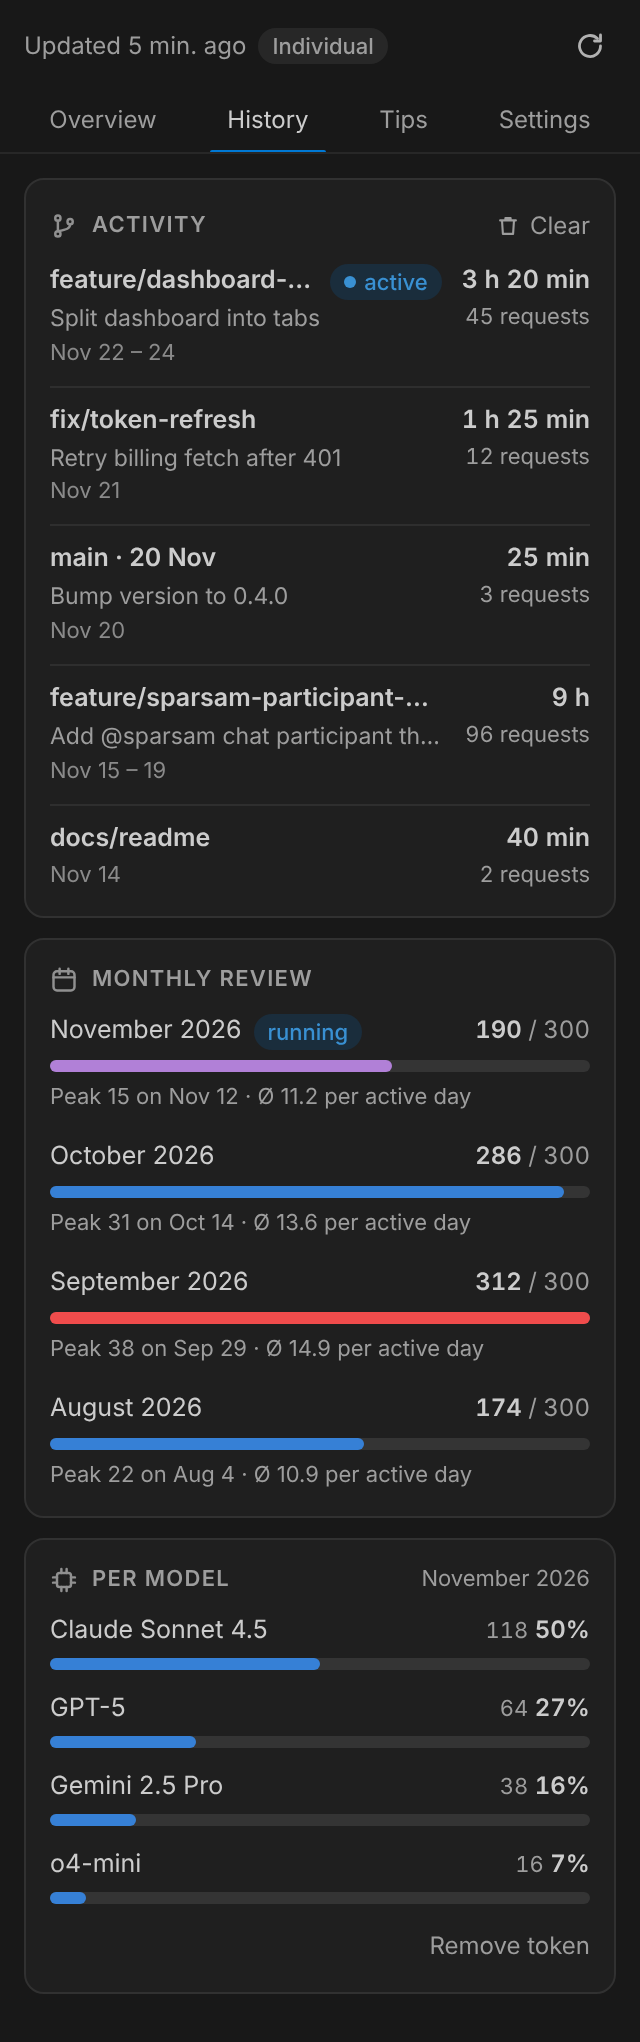
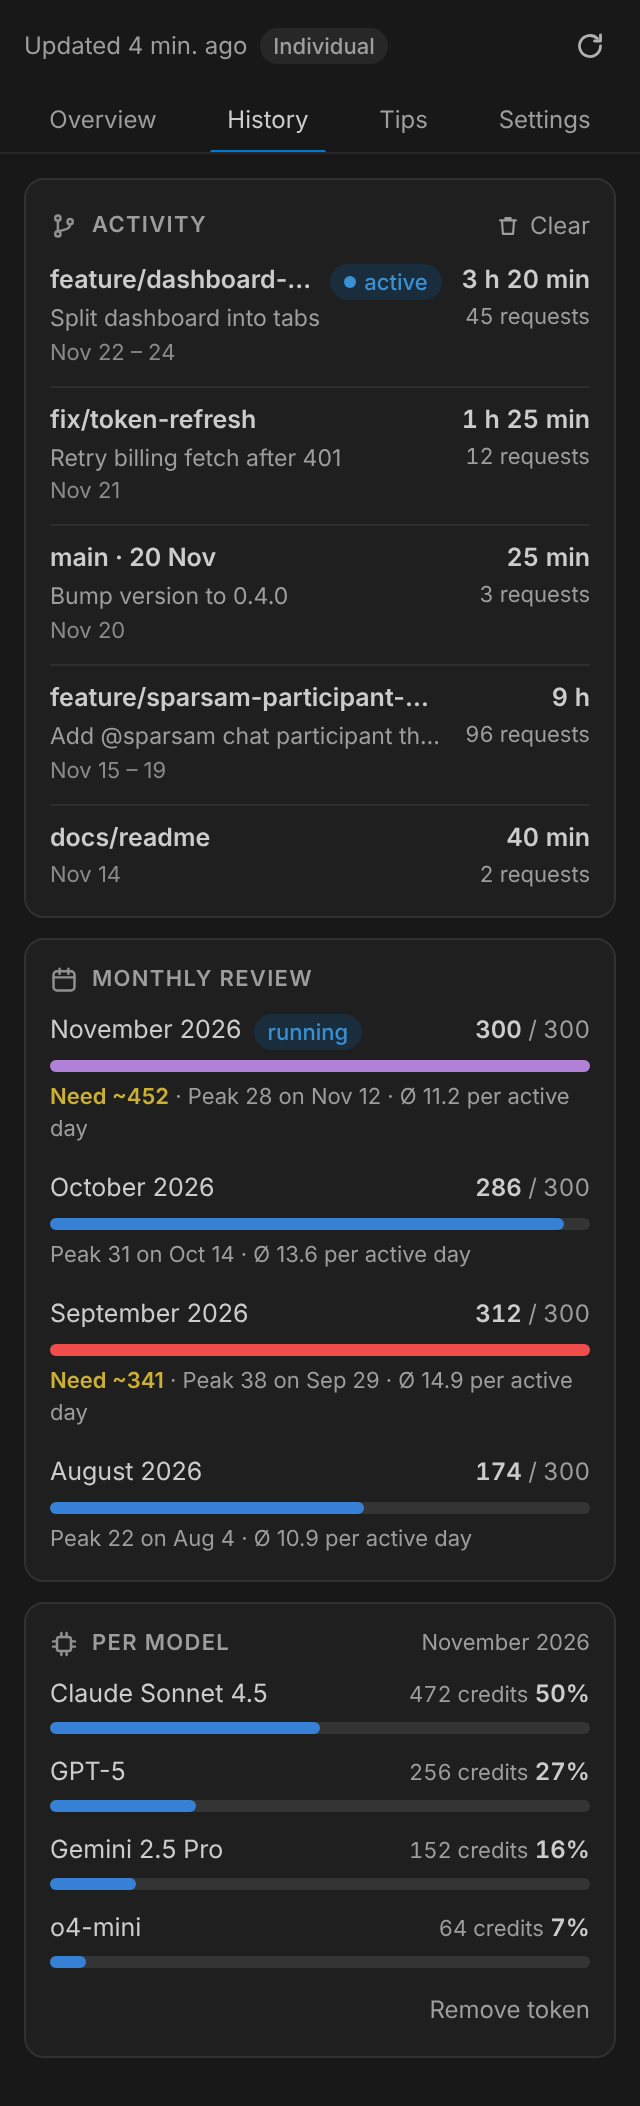
@btw chat participant, credits-first display, need estimate in dashboard
@btw answers side questions in Copilot Chat with the selected chat model
and the conversation/editor context; the panel remains for busy agent
runs. Dashboard shows the estimated monthly need, exhausted days, credits
per model and a unit setting.

Claude-Session: https://claude.ai/code/session_01Bc7AVBC2ayNjQhuqQbKSF2

diff --git a/media/dashboard/dashboard.js b/media/dashboard/dashboard.js
@@ -347,9 +347,9 @@
         icon: icon.sun,
         label: t('today'),
         value: fmt(m.today),
-        sub: q.unlimited || !f ? '' : t('ofBudget', fmt(budget)),
+        sub: q.unlimited || !f ? '' : !(q.remaining > 0) ? t('legendEmpty') : t('ofBudget', fmt(budget)),
         bar: q.unlimited || !f || budget <= 0 ? undefined : m.today / budget,
-        tone: !q.unlimited && f && m.today > budget ? 'bad' : !q.unlimited && f ? 'good' : '',
+        tone: q.unlimited || !f || !(q.remaining > 0) ? '' : m.today > budget ? 'bad' : 'good',
       }),
     );
     if (!q.unlimited && f) {
@@ -710,23 +710,30 @@
             c.activeDays > 0 ? raw('avgActiveDay', fmt(c.avgPerActiveDay)) : '',
           ]
             .filter(Boolean)
-            .map(esc)
-            .join(' · ');
+            .map(esc);
+          if (c.demand !== undefined && c.demand > c.entitlement) {
+            // The insight: how much more this month would have needed.
+            facts.unshift(`<span class="rev-need" title="${t('reviewNeedTitle')}">${t('reviewNeed', fmt(Math.round(c.demand)))}</span>`);
+          }
           return `<li class="rev ${c.current ? 'current' : ''} ${over ? 'over' : ''}">
             <div class="rev-head"><span class="rev-label">${esc(c.label)}${
               c.current ? ` <span class="badge badge-live">${t('running')}</span>` : ''
-            }</span><span class="rev-val"><b>${fmt(c.used)}</b><span class="muted"> / ${fmt(c.entitlement)}</span>${
-              c.demand !== undefined && c.demand > c.entitlement
-                ? `<span class="rev-need" title="${t('reviewNeedTitle')}"> · ${t('reviewNeed', fmt(Math.round(c.demand)))}</span>`
-                : ''
-            }</span></div>
+            }</span><span class="rev-val"><b>${fmt(c.used)}</b><span class="muted"> / ${fmt(c.entitlement)}</span></span></div>
             <div class="meter rev-meter"><span class="meter-fill" data-w="${clamp(share * 100, 0, 100)}"></span></div>
-            ${facts ? `<div class="rev-facts">${facts}</div>` : ''}</li>`;
+            ${facts.length ? `<div class="rev-facts">${facts.join(' · ')}</div>` : ''}</li>`;
         })
         .join('')}</ul>`;
     }
     return `<section class="card" aria-labelledby="rev-title">
       <div class="card-head"><h2 id="rev-title">${icon.calendar}${t('review')}</h2></div>${body}</section>`;
+  }
+
+  /** Credits when the report has them (share is by credits then), else request counts. */
+  function modelAmount(x, long) {
+    if (model.models.showCredits && x.credits !== undefined) {
+      return raw('creditsAmount', fmt(x.credits));
+    }
+    return long ? raw('requestsAmount', fmt(x.quantity)) : fmt(x.quantity);
   }
 
   function modelsCard() {
@@ -751,8 +758,8 @@
           ? `<p class="muted small">${t('modelsEmpty')}</p>`
           : `<ul class="mod-list">${items
               .map(
-                (x, i) => `<li class="mod ${i === 0 ? 'top' : ''}" title="${esc(`${x.model}: ${fmt(x.quantity)} ${unit()}`)}">
-            <div class="mod-head"><span class="mod-name">${esc(x.model)}</span><span class="mod-val"><span class="muted">${fmt(x.quantity)}</span> <b>${pct(
+                (x, i) => `<li class="mod ${i === 0 ? 'top' : ''}" title="${esc(`${x.model}: ${modelAmount(x, true)}`)}">
+            <div class="mod-head"><span class="mod-name">${esc(x.model)}</span><span class="mod-val"><span class="muted">${esc(modelAmount(x, false))}</span> <b>${pct(
               x.share * 100,
             )}</b></span></div>
             <div class="meter mod-meter"><span class="meter-fill" data-w="${clamp(x.share * 100, 0, 100)}"></span></div></li>`,
@@ -937,7 +944,13 @@
     const display = group(
       icon.monitor,
       t('displayGroup'),
-      `<div class="field"><span class="field-label" id="lbl-display">${t('statusBarShows')}</span>${segmented(
+      `<div class="field"><span class="field-label" id="lbl-unit">${t('unitShow')}</span>${segmented(
+        'unit',
+        s.unit || 'auto',
+        ['auto', 'credits', 'requests'].map((v) => [v, t(`unit_${v}`)]),
+        'lbl-unit',
+      )}<span class="row-hint">${t('unitHint')}</span></div>
+      <div class="field"><span class="field-label" id="lbl-display">${t('statusBarShows')}</span>${segmented(
         'display',
         s.display,
         [

diff --git a/src/dashboardStrings.ts b/src/dashboardStrings.ts
@@ -40,7 +40,7 @@ export function dashboardStrings(): Record<string, string> {
     btwTitle: vscode.l10n.t('Side questions with btw'),
     btwText: vscode.l10n.t("Type @btw in Copilot Chat for a quick side question. It knows your chat and editor, and isn't mixed into your main task."),
     btwModelInfoChat: vscode.l10n.t('Answered by the same model as your chat, so it costs what that model costs.'),
-    btwModelInfoFree: vscode.l10n.t('Answered by a free included model, so it uses no premium requests.'),
+    btwModelInfoFree: vscode.l10n.t('Answered by a free included model, so it uses none of your allowance.'),
 
     // History: activity
     activity: vscode.l10n.t('Activity'),
@@ -50,9 +50,9 @@ export function dashboardStrings(): Record<string, string> {
     durH: vscode.l10n.t('{0} h'),
     durHM: vscode.l10n.t('{0} h {1} min'),
     activityEmpty: vscode.l10n.t('Nothing recorded yet'),
-    activityEmptyText: vscode.l10n.t('While you work, the active editor time and the requests used are recorded per git branch. The data stays on this machine.'),
+    activityEmptyText: vscode.l10n.t('While you work, the active editor time and the allowance used are recorded per git branch. The data stays on this machine.'),
     activityOffTitle: vscode.l10n.t('Activity tracking is off'),
-    activityOffText: vscode.l10n.t('Turn it on to see what you worked on, how long it took and how many requests it used.'),
+    activityOffText: vscode.l10n.t('Turn it on to see what you worked on, how long it took and how much of your allowance it used.'),
     activityPaused: vscode.l10n.t('Tracking is paused.'),
     turnOn: vscode.l10n.t('Turn on'),
 
@@ -73,6 +73,8 @@ export function dashboardStrings(): Record<string, string> {
     removeToken: vscode.l10n.t('Remove token'),
     modelsLoading: vscode.l10n.t('Loading usage per model…'),
     modelsError: vscode.l10n.t('Could not load usage per model'),
+    creditsAmount: vscode.l10n.t('{0} credits'),
+    requestsAmount: vscode.l10n.t('{0} requests'),
     modelsEmpty: vscode.l10n.t('No usage recorded for this period yet.'),
 
     // Tiles
@@ -118,7 +120,7 @@ export function dashboardStrings(): Record<string, string> {
 
     // Overage
     overage: vscode.l10n.t('Overage'),
-    overageEnabled: vscode.l10n.t('Requests beyond your allowance are billed. Set a spending limit to stay in control.'),
+    overageEnabled: vscode.l10n.t('Usage beyond your allowance is billed. Set a spending limit to stay in control.'),
     overageCount: vscode.l10n.t('Overage this month: {0}'),
     openBilling: vscode.l10n.t('Open GitHub billing'),
 
@@ -159,6 +161,11 @@ export function dashboardStrings(): Record<string, string> {
     billingTokenHint: vscode.l10n.t("GitHub token with 'Plan' read permission"),
     tokenStored: vscode.l10n.t('Token stored securely'),
     statusBarShows: vscode.l10n.t('Status bar shows'),
+    unitShow: vscode.l10n.t('Show'),
+    unitHint: vscode.l10n.t('Auto prefers AI credits when GitHub reports them'),
+    unit_auto: vscode.l10n.t('Auto'),
+    unit_credits: vscode.l10n.t('Credits'),
+    unit_requests: vscode.l10n.t('Requests'),
     displayRemaining: vscode.l10n.t('Remaining'),
     displayUsed: vscode.l10n.t('Used'),
     displayPercent: vscode.l10n.t('Percent'),

diff --git a/media/dashboard/dashboard.css b/media/dashboard/dashboard.css
@@ -562,11 +562,9 @@ button { font: inherit; color: inherit; }
   align-items: center;
   gap: 4px;
   font-size: 11px;
+  line-height: 1.4;
   color: var(--muted);
-  min-height: 16px;
-  white-space: nowrap;
-  overflow: hidden;
-  text-overflow: ellipsis;
+  min-height: 15px;
 }
 .tile-sub .i { width: 12px; height: 12px; color: var(--red); }
 .tone-bad .tile-sub:has(.i) { color: color-mix(in srgb, var(--red) 75%, var(--fg)); }
@@ -581,6 +579,8 @@ button { font: inherit; color: inherit; }
 }
 .c-svg { display: block; overflow: visible; }
 .c-weekend { fill: color-mix(in srgb, var(--fg) 4.5%, transparent); }
+.c-empty { fill: url(#c-empty-hatch); }
+.c-empty-line { stroke: color-mix(in srgb, var(--fg) 13%, transparent); stroke-width: 1.5; }
 .c-base { stroke: var(--hairline); stroke-width: 1; }
 .c-bar { fill: var(--bar); transition: opacity 0.15s ease; }
 .c-bar.weekend { fill: var(--bar-soft); }
@@ -634,6 +634,10 @@ button { font: inherit; color: inherit; }
 .sw-ghost {
   background: color-mix(in srgb, var(--status) 9%, transparent);
   border: 1px dashed color-mix(in srgb, var(--status) 60%, transparent);
+}
+.sw-empty {
+  border: 1px solid color-mix(in srgb, var(--fg) 14%, transparent);
+  background: repeating-linear-gradient(-45deg, color-mix(in srgb, var(--fg) 22%, transparent) 0 1.5px, transparent 1.5px 4px);
 }
 .sw-est {
   border: 1px dashed color-mix(in srgb, var(--bar-base) 55%, transparent);
@@ -1077,6 +1081,7 @@ code {
 .rev.current .meter-fill { background: var(--bar-today); }
 .rev.over .meter-fill { background: var(--red); }
 .rev-facts { font-size: 11px; color: var(--muted); }
+.rev-need { color: color-mix(in srgb, var(--yellow) 75%, var(--fg)); font-weight: 600; }
 .mod { display: grid; gap: 4px; }
 .mod-name { min-width: 0; overflow: hidden; text-overflow: ellipsis; white-space: nowrap; }
 .mod-val .muted { font-size: 11px; }

diff --git a/src/extension.ts b/src/extension.ts
@@ -18,7 +18,8 @@ import { ActivityTracker } from './activityTracker';
 import { guidedSignIn } from './signIn';
 import { CopilotOptions } from './copilotOptions';
 import { BillingService } from './billingService';
-import { BtwViewProvider, btwCommand } from './btw/btwView';
+import { BtwViewProvider, btwCommand, revealBtwPanel } from './btw/btwView';
+import { registerBtwParticipant } from './chat/btwParticipant';
 import { resolveColor } from './core/appearance';
 import { expectedSurplus } from './core/surplus';
 
@@ -470,6 +471,8 @@ export function activate(context: vscode.ExtensionContext): void {
     btw,
     vscode.window.registerWebviewViewProvider(BtwViewProvider.viewId, btw),
     vscode.commands.registerCommand('contingentWatcher.btw', () => btwCommand(btw)),
+    vscode.commands.registerCommand('contingentWatcher.btw.panel', () => revealBtwPanel(btw)),
+    registerBtwParticipant(context, log),
     vscode.commands.registerCommand('contingentWatcher.btw.clear', () => btw.clear()),
     vscode.commands.registerCommand('contingentWatcher.configureBillingToken', () => ctl.onDashboardCommand('configureBillingToken')),
     vscode.commands.registerCommand('contingentWatcher.showLog', () => log.show()),

diff --git a/src/dashboardView.ts b/src/dashboardView.ts
@@ -57,6 +57,7 @@ const SETTINGS: Record<DashboardSettingKey, true> = {
   btwIncludeChat: true,
   copilotEagerness: true,
   copilotLanguage: true,
+  unit: true,
 };
 
 const has = (o: object, k: unknown): boolean => typeof k === 'string' && Object.prototype.hasOwnProperty.call(o, k);

diff --git a/README.md b/README.md
@@ -10,7 +10,9 @@ VS-Code-Erweiterung, die dein GitHub-Copilot-Kontingent (Premium-Anfragen oder A
   - **Verlauf:** woran du gearbeitet hast und wie lange (aktive Zeit pro Git-Branch, mit Verbrauch), Monatsrückblick, Verbrauch pro Modell
   - **Tipps:** Spartipps passend zur aktuellen Lage
   - **Einstellungen:** Anzeige, Warnungen, Budget, Akzentfarbe, Statusleisten-Icon und -Farbe, Copilot-Schalter
-- **btw – Nebenfrage wie in Claude Code** (`Strg+Alt+Umschalt+B` / `Cmd+Alt+Shift+B`): Du stellst eine kurze Zwischenfrage im BTW-Panel unten. Sie kennt einen Schnappschuss deines aktuellen Copilot-Chats und Editors und landet nicht in deinem Chat. Modell wählbar: **wie im Chat** (Standard) oder **Gratis-Modell** (inklusiv, keine Premium-Requests).
+- **`@btw` im Copilot-Chat – Nebenfrage wie in Claude Code:** `@btw deine Frage` antwortet mit dem gerade im Chat gewählten Modell (oder optional einem Gratis-Modell). Es kennt den bisherigen Chat und deinen Editor. Mit `Strg+Alt+Umschalt+B` / `Cmd+Alt+Shift+B` öffnest du den Chat mit `@btw` vorausgefüllt. Läuft gerade ein Agent, nutzt du das btw-Panel (Befehl *Nebenfrage im Panel stellen*).
+- **Credits statt Requests:** Meldet GitHub AI-Credits (nutzungsbasierte Abrechnung), zeigt die Extension Credits an. Das ist einstellbar über `contingentWatcher.unit`.
+- **Bedarf (geschätzt):** wie viel dein Monat bei deinem Tempo gebraucht hätte, auch wenn das Kontingent schon leer ist, und wie viel pro Tag gereicht hätte.
 - **Hinweis gegen Verfall:** In der letzten Monatswoche meldet die Extension, wenn ein Teil des Kontingents voraussichtlich ungenutzt verfällt.
 - Berechnet ein **Tagesbudget** bis zum Reset (optional ohne Wochenenden, mit Reserve).
 - Prognostiziert dein Tempo und zeigt, an welchem Tag das Kontingent bei gleichem Verbrauch leer wäre.
@@ -45,6 +47,7 @@ VS-Code-Erweiterung, die dein GitHub-Copilot-Kontingent (Premium-Anfragen oder A
 | `contingentWatcher.warnings.surplusHint` | `true` | Hinweis, wenn Kontingent ungenutzt verfallen würde. |
 | `contingentWatcher.activity.enabled` | `true` | Aktive Zeit und Verbrauch pro Git-Branch aufzeichnen (nur lokal). |
 | `contingentWatcher.btw.includeChat` | `true` | Den aktuellen Copilot-Chat als Kontext für btw nutzen (lokal gelesen). |
+| `contingentWatcher.unit` | `auto` | Anzeige: `auto` (Credits, wenn vorhanden), `credits` oder `requests`. |
 | `contingentWatcher.btw.model` | `chat` | Modell für btw: `chat` (wie im Chat) oder `included` (Gratis-Modell). |
 | `contingentWatcher.chat.preferredModels` | `gpt-5-mini, gpt-4.1, gpt-4o` | Gratis-Modelle für btw im Modus `included` (nur inklusive Modelle eintragen). |
 

diff --git a/CHANGELOG.md b/CHANGELOG.md
@@ -2,6 +2,12 @@
 
 ## 0.2.0
 
+- `@btw` im Copilot-Chat: Nebenfragen mit dem gewählten Chat-Modell und Chat-Kontext
+- AI-Credits werden bevorzugt angezeigt (einstellbar), Verbrauch pro Modell in Credits
+- Bedarf (geschätzt): was der Monat bei deinem Tempo gebraucht hätte
+- Streak endet, wenn das Kontingent leer ist
+- Geführte Anmeldung für GitHub Enterprise (GHE.com, Enterprise Server)
+
 - btw: Nebenfragen mit Chat- und Editor-Kontext im eigenen Panel (Strg+Alt+Umschalt+B), mit Chat-Modell oder Gratis-Modell
 - Copilot-Optionen im Dashboard: Eagerness, Vorschläge pro Sprache, Snooze
 - Eigene Statusleisten-Farbe bleibt auch bei Warnungen sichtbar
